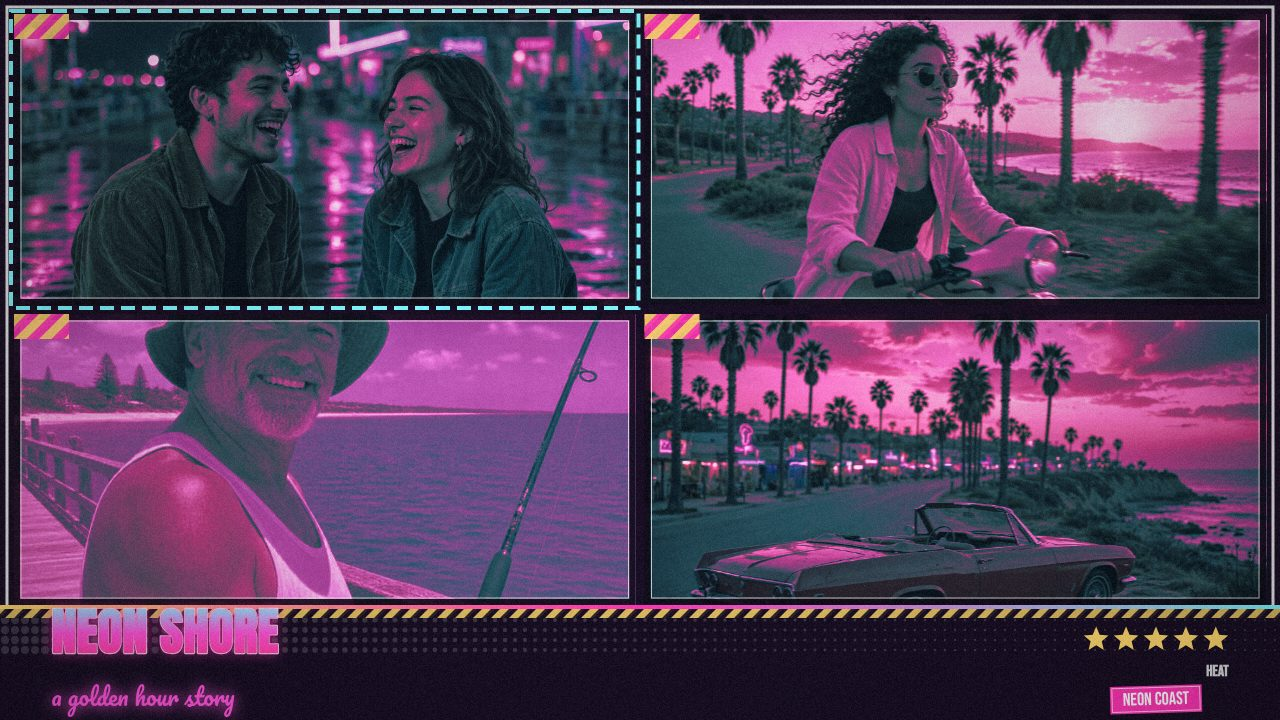
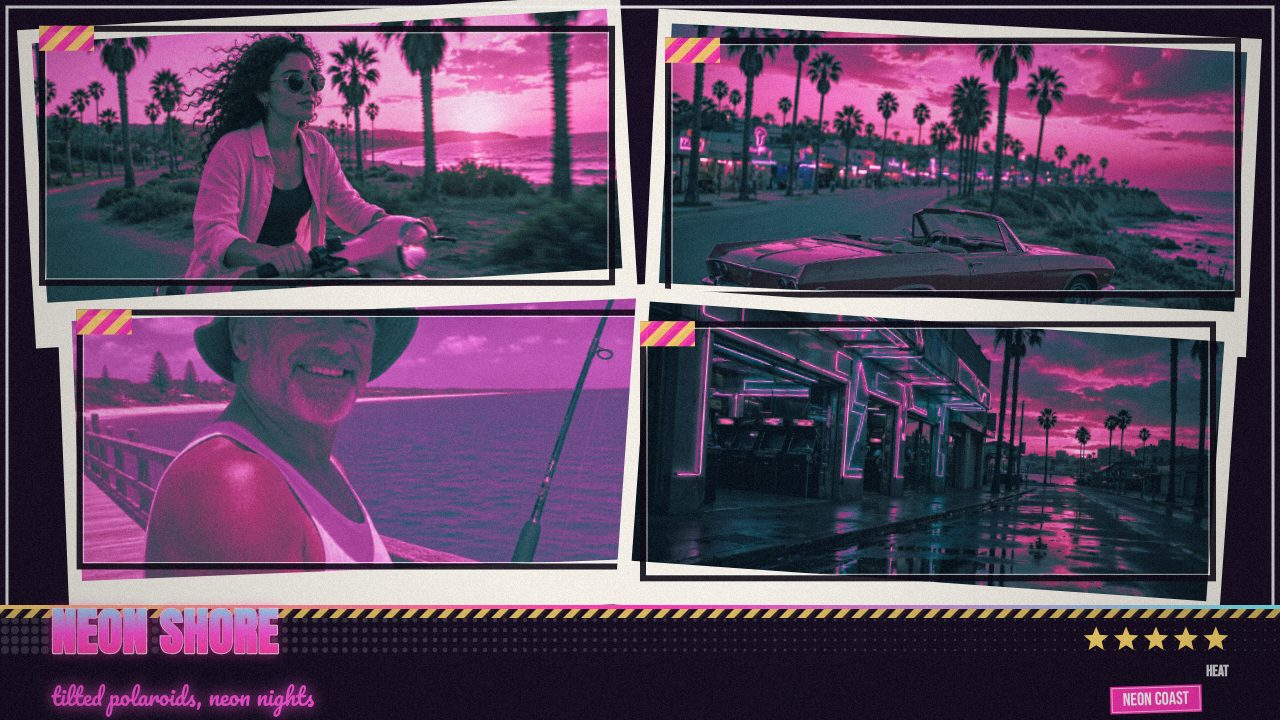
Fix audit D2-D7: 9 distinct sample photos, tilted lead cover, distinct shots, varied subtitles, drop metadata JSONs

diff --git a/app/src/shots.js b/app/src/shots.js
@@ -11,7 +11,7 @@
 // window.__shotReady is set once painted.
 import { defaultPanels, retargetPanels } from './state.js';
 
-const SAMPLE_FILES = ['boulevard.jpg', 'pier.jpg', 'scooter.jpg', 'boardwalk.jpg'];
+const SAMPLE_FILES = ['boulevard.jpg', 'pier.jpg', 'scooter.jpg', 'boardwalk.jpg', 'convertible.jpg', 'neon.jpg', 'palms.jpg', 'bonfire.jpg', 'marina.jpg'];
 
 export async function runShot(shot, query, ctx) {
   const { state, loadSample, redraw, syncControls } = ctx;
